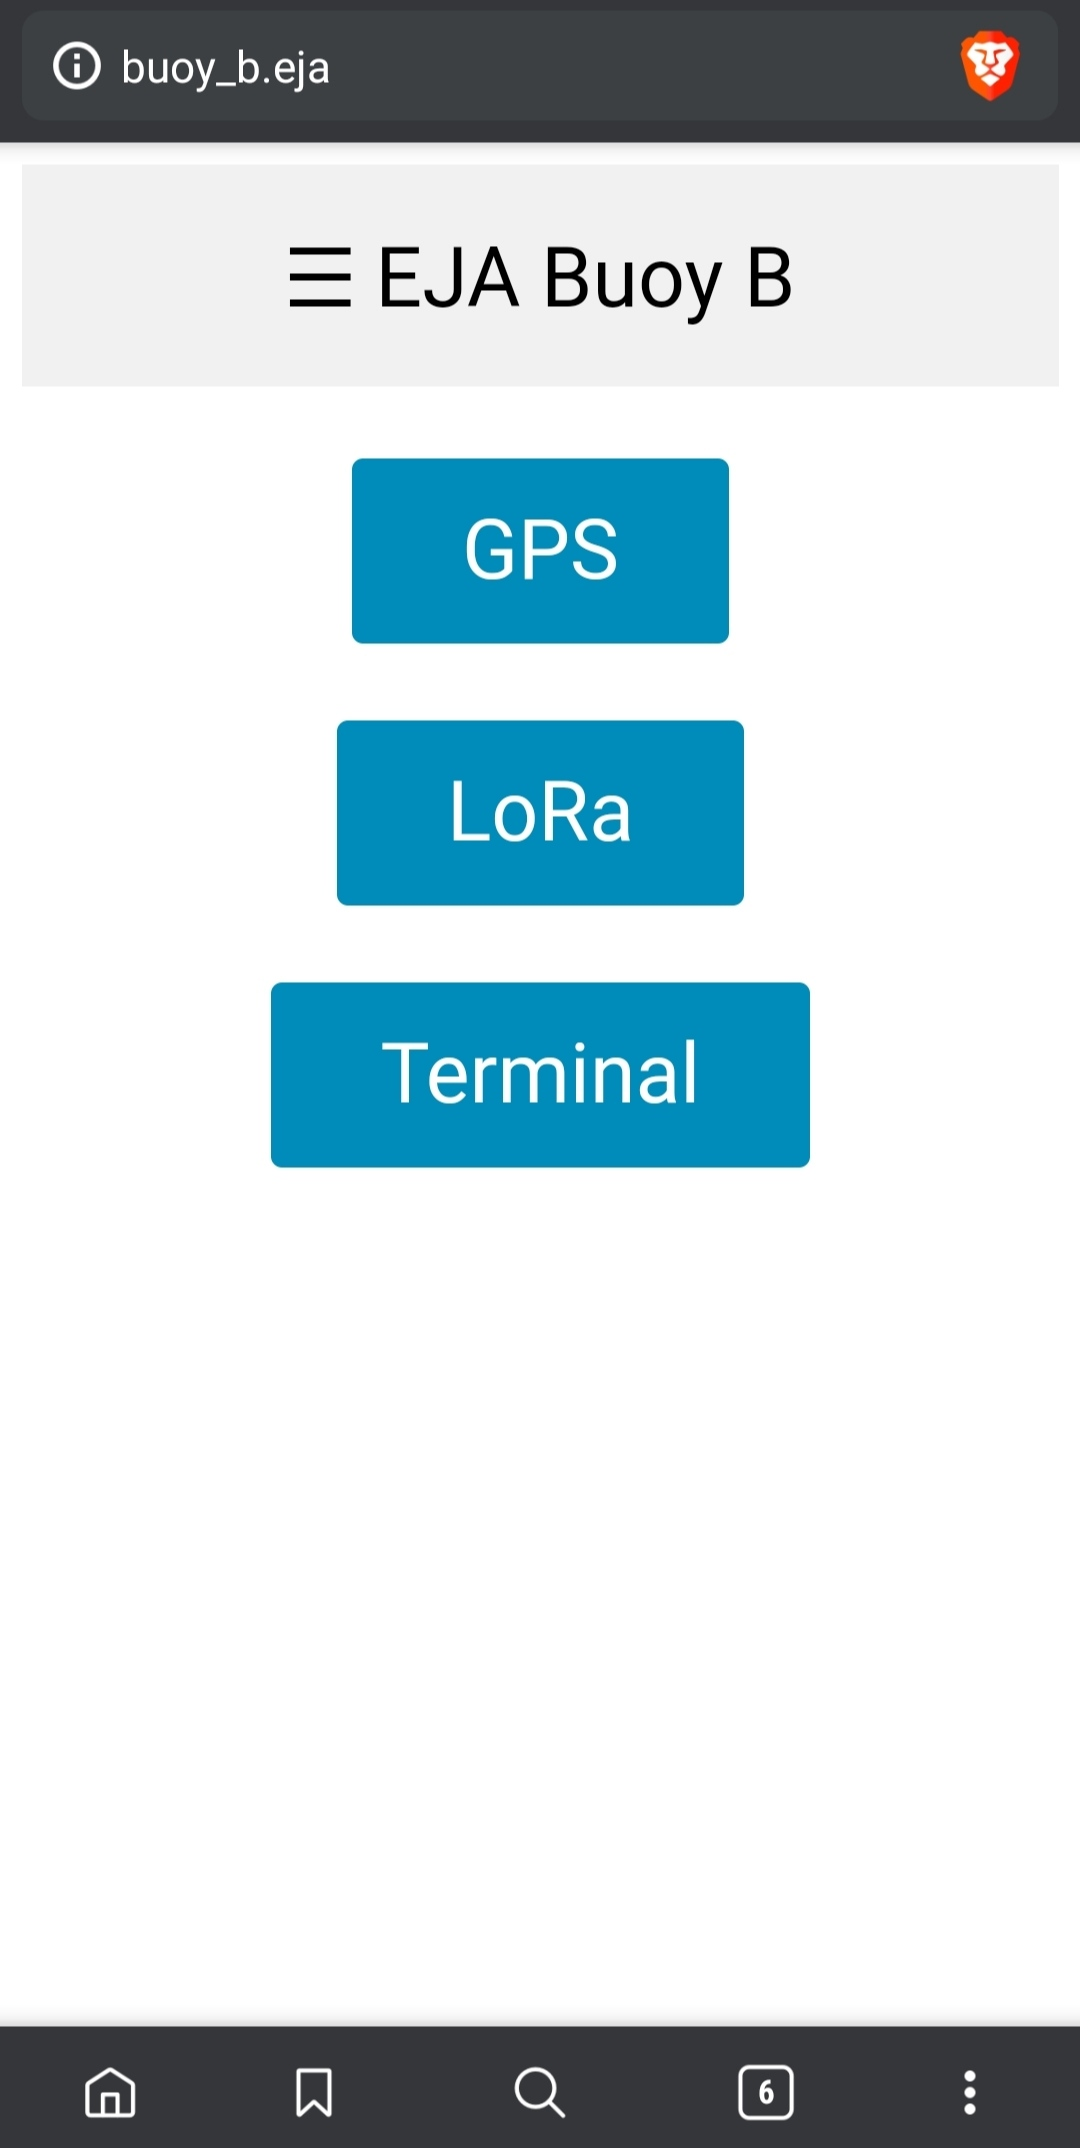
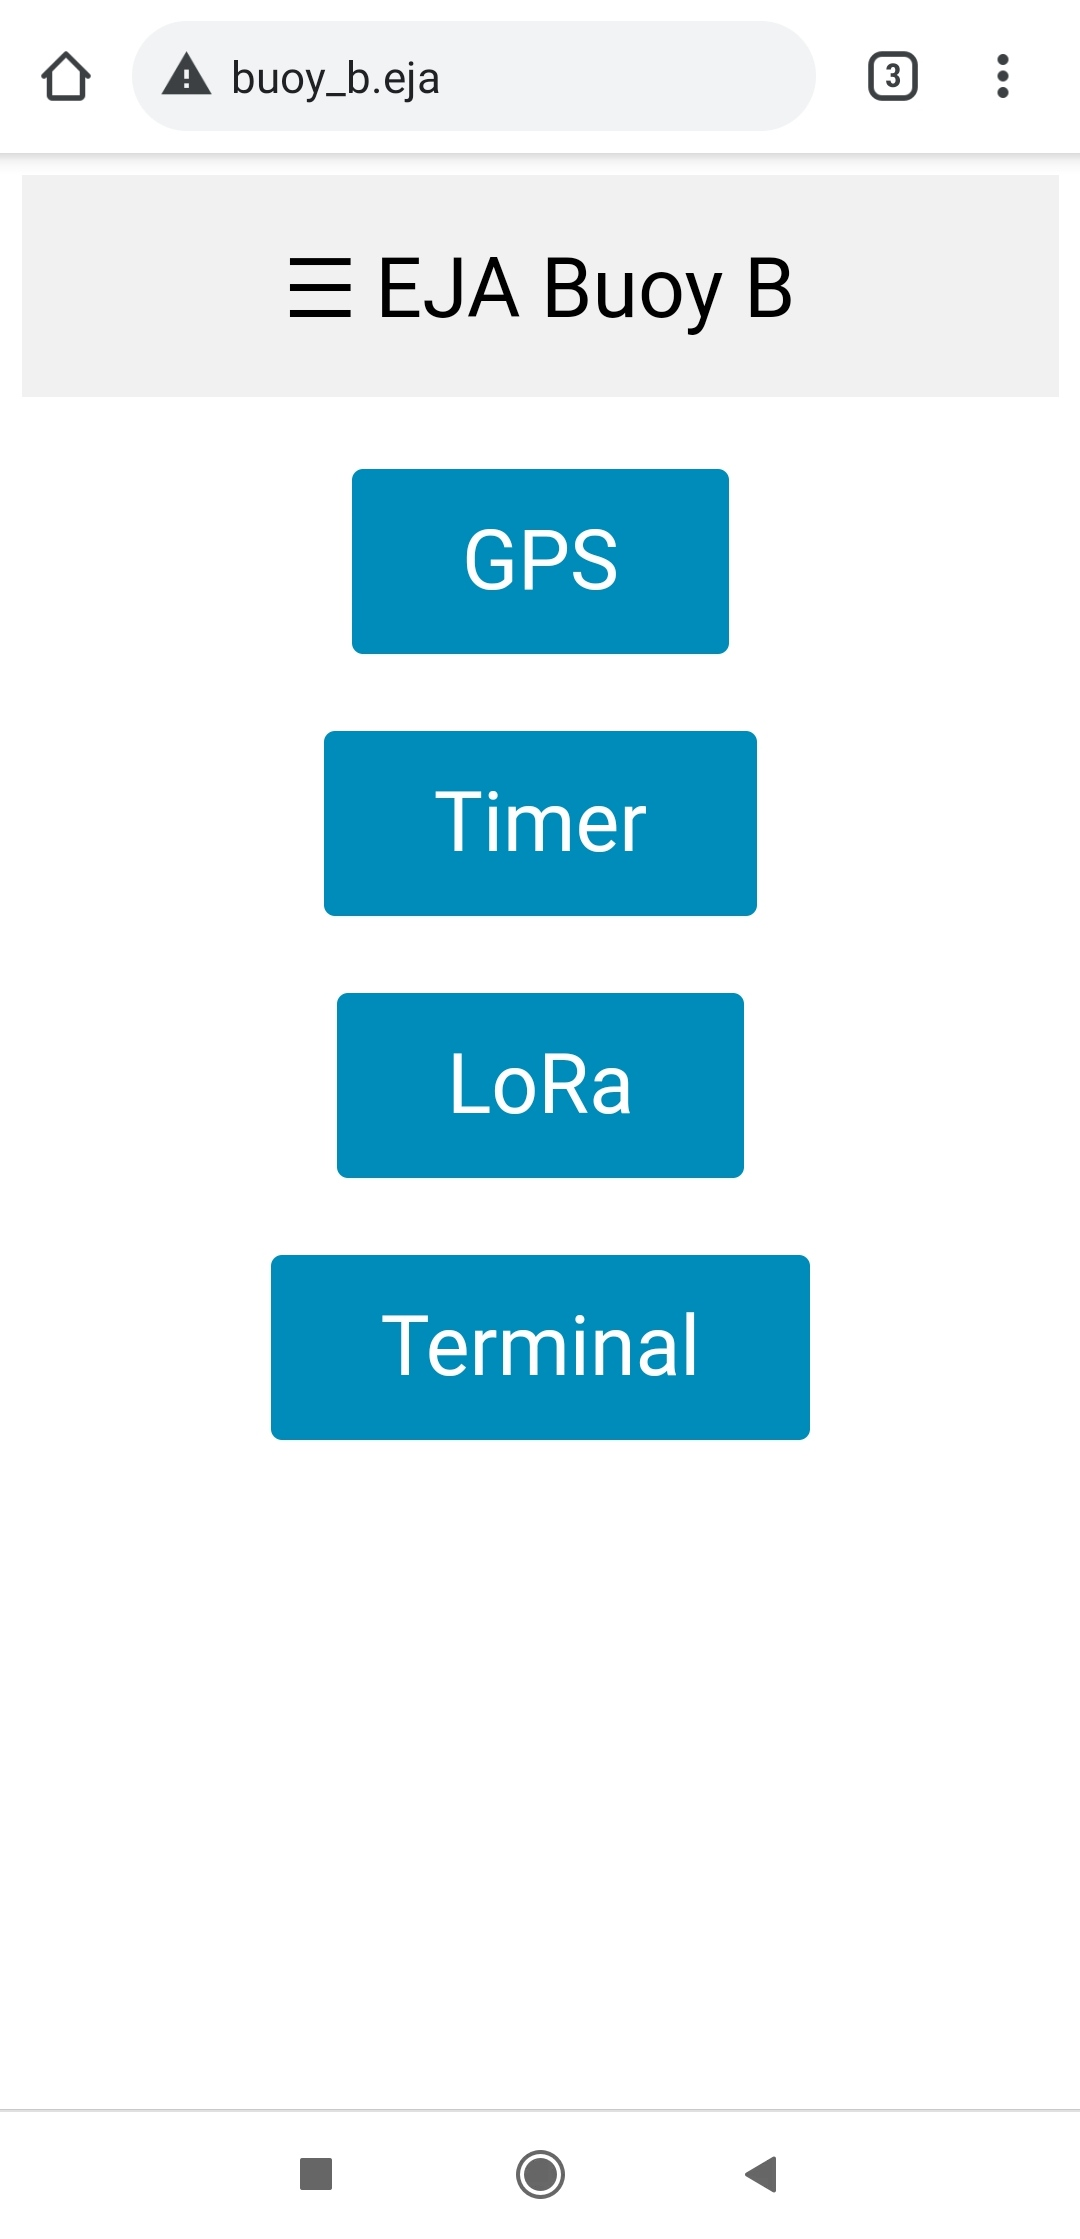
Added timer images

diff --git a/README.md b/README.md
@@ -39,6 +39,8 @@ Once the device (phone/computer) is connected to the server (EJA_Buoy_B), open a
 http://www.buoy_b.eja/
 ```
 
+### HOME ###
+
 The previous link displays the web page used for HOME:
 
 <img src="./img/home.jpg" width="50%">
@@ -47,9 +49,31 @@ There is a header with the name "EJA Buoy B" that opens a sidebar with links to 
 
 <img src="./img/menu.jpg" width="50%">
 
+### GPS ###
+
 The page http://www.buoy_b.eja/gps shows the data from the GPS module.
 
 <img src="./img/gps.jpg" width="50%">
+
+### Timer ###
+
+The page http://www.buoy_b.eja/timer shows the interface to create a timer in the Buoy. The timer represents a countdown that activates the release mechanism when the time has reached zero. The initial page allows the user to set the timer.
+
+<img src="./img/settimer_filled.jpg" width="50%">
+
+After selecting the amount of time the user has to click the **Submit** button. That will create the timer, the interface displays the countdown to the user.
+
+<img src="./img/remaining_time.jpg" width="50%">
+
+When the timer reaches zero, the Buoy activates the release mechanism.
+
+<img src="./img/timer_reached_zero.jpg" width="50%">
+
+The user can delete the timer at any time clicking the button **Delete Timer**. When the user deletes the timer, it is possible to create a new one a restart the process.
+
+<img src="./img/delete_timer.jpg" width="50%">
+
+### LoRa ###
 
 The page http://www.buoy_b.eja/lora shows internal messages related to LoRa. In the ESP32 that information is stored in the variable:
 
@@ -58,6 +82,8 @@ String lora_all_msg = "";
 ```
 
 <img src="./img/lora.jpg" width="50%">
+
+### Terminal ###
 
 The page "http://www.buoy_b.eja/terminal" shows internal messages. In the ESP32 that information is stored in the variable:
 
